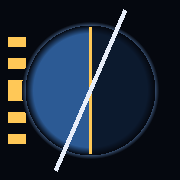
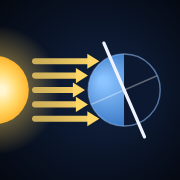
v0.7: neues App-Symbol
Kleinere Erde mit Tag-/Nachtseite und geneigter Achse, kräftige Sonnenstrahlen
mit Pfeilspitzen, die an der Erdoberfläche enden. Favicon mit drei breiten
Strahlen für 32 px. Symbol-Links mit ?v=2, damit Browser nicht die alte Datei zeigen.

Claude-Session: https://claude.ai/code/session_01RCQ1SJi2XtBZejTRqXR4Mw

diff --git a/index.html b/index.html
@@ -11,8 +11,8 @@
 <title>Equinox – Jahreszeiten, Tageslänge, Sonneneinstrahlung</title>
 <meta name="description" content="Warum es Jahreszeiten gibt: Erdbahn, Achsneigung, Tag und Nacht nach Breitengrad, Polarnacht und Mitternachtssonne, Sonneneinstrahlung am Oberrand der Atmosphäre.">
 <link rel="manifest" href="manifest.webmanifest">
-<link rel="apple-touch-icon" href="apple-touch-icon.png">
-<link rel="icon" type="image/png" sizes="32x32" href="favicon-32.png">
+<link rel="apple-touch-icon" href="apple-touch-icon.png?v=2">
+<link rel="icon" type="image/png" sizes="32x32" href="favicon-32.png?v=2">
 <style>
 :root{
   --bg0:#05080f; --bg1:#0b1220; --bg2:#101a2e; --line:#1d2a42;
@@ -120,7 +120,7 @@ summary{font-size:13px;color:var(--mut);cursor:pointer}
 <header id="hdr">
   <div class="row1">
     <h1>Equinox</h1>
-    <button class="ver" id="verBtn" type="button">v0.6</button>
+    <button class="ver" id="verBtn" type="button">v0.7</button>
     <span class="season" id="seasonTxt">–</span>
   </div>
 </header>
@@ -366,7 +366,7 @@ Beispiel Sommersonnenwende, r ≈ 1,016 AE:
 
 <script>
 'use strict';
-const APP_VERSION = '0.6';
+const APP_VERSION = '0.7';
 /* =====================================================================
    KERN – DOM-frei: Sonnenformeln (NOAA/Meeus-Kurzform), Tageslänge,
    Einstrahlung. Identische Sonnen-Pipeline wie Satellitenhimmel.
